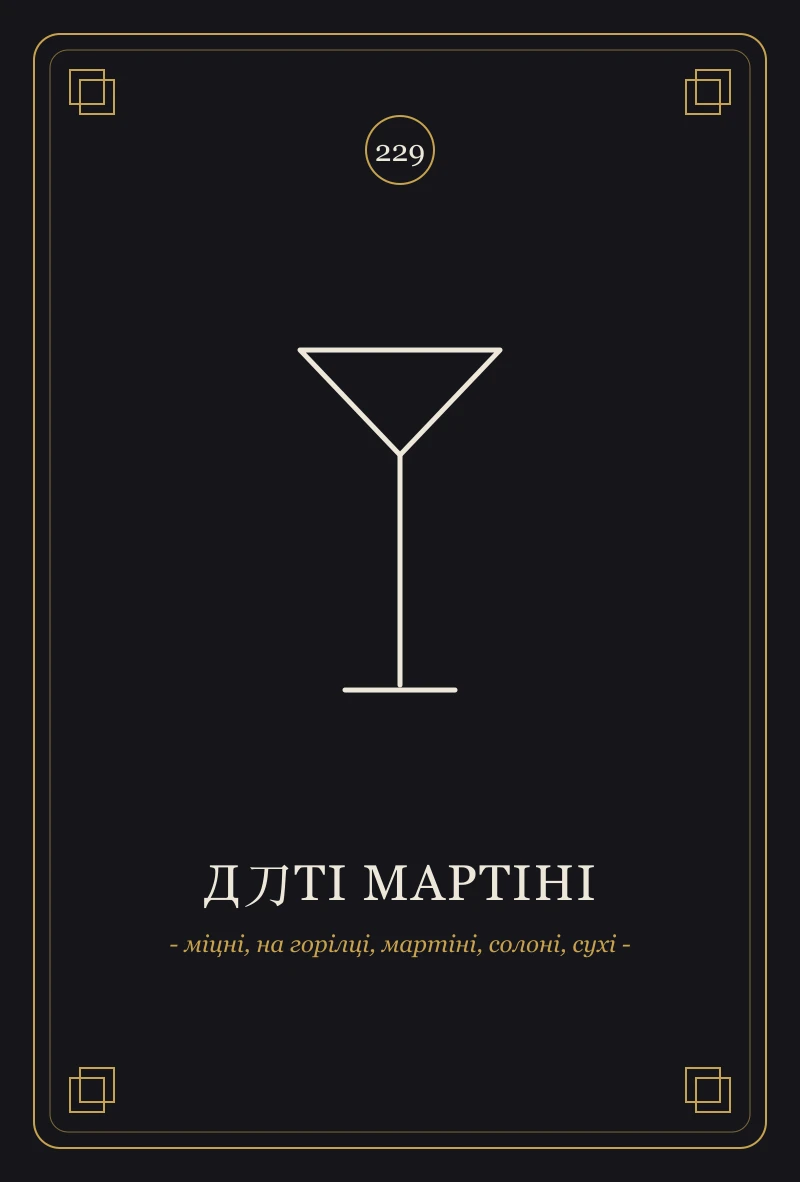
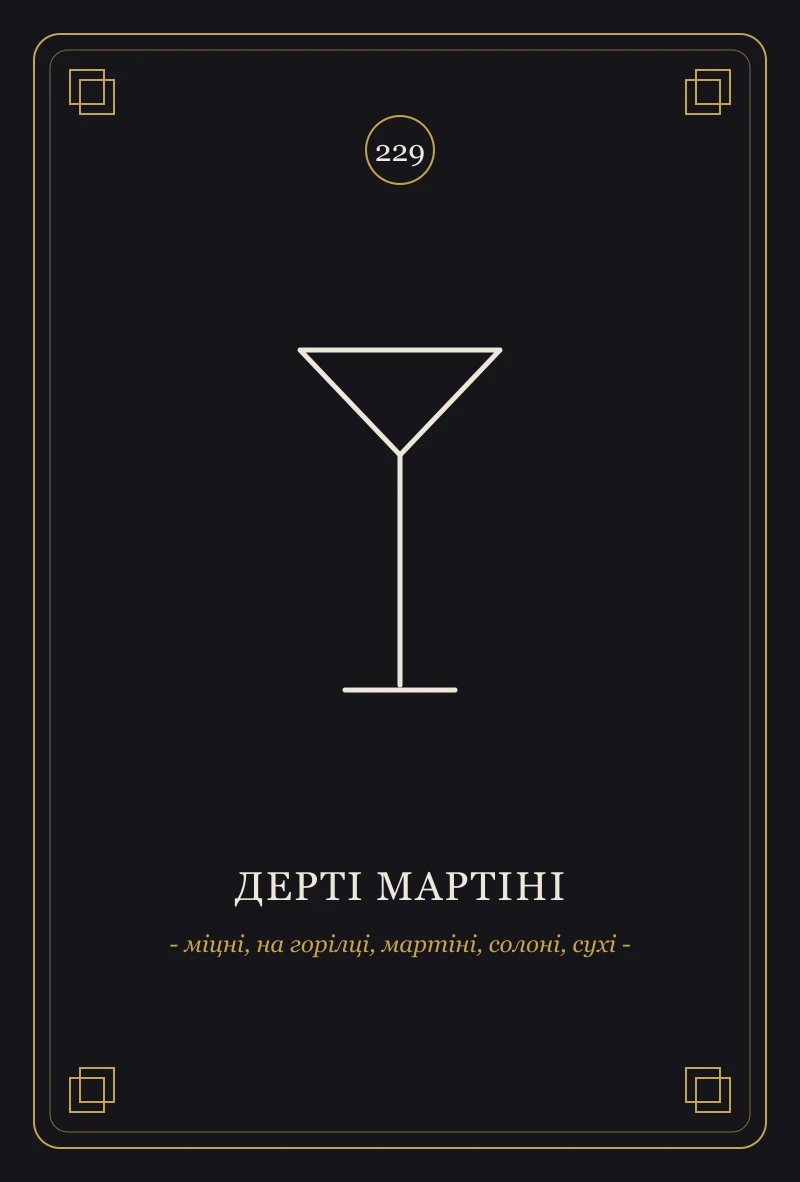
Recognise "Коктейльний келих" as a glass, add mug and julep cup, fix Dirty Martini's name
- The cocktail-glass pattern used \w, which is ASCII-only in JS regexes, so
  "Коктейльний келих" (201 recipes) never counted as a glass: it was missing
  from the glass filter and treated as a tool. Now a Unicode letter class.
- "Чашка" and "Кубок" are proper glasses with icons; "Келих Маргарита" folds
  into the coupe.
- Dirty Martini was named "Д刀ті Мартіні" (a stray CJK character): now
  "Дерті Мартіні", card art regenerated.

Changed region(s): [[0.25, 0.731, 0.75, 0.7614]]

diff --git a/src/data/catalog/tools.ts b/src/data/catalog/tools.ts
@@ -31,7 +31,7 @@ const CANON: Entry[] = [
     icon: "glass-cocktail",
     nameUk: "Шампанське блюдце",
     desc: "Широкий неглибокий келих на ніжці.",
-    match: /блюдц|купе|келих сауер/,
+    match: /блюдц|купе|келих сауер|маргарит/,
   },
   {
     id: "glass-martini",
@@ -39,7 +39,7 @@ const CANON: Entry[] = [
     icon: "glass-cocktail",
     nameUk: "Коктейльний келих",
     desc: "Келих-конус на ніжці для коктейлів без льоду.",
-    match: /мартіні|коктейльн\w* келих/,
+    match: /мартіні|коктейльн\p{L}* келих/u,
   },
   {
     id: "glass-wine",
@@ -104,6 +104,22 @@ const CANON: Entry[] = [
     nameUk: "Чарка",
     desc: "Маленька склянка для шотів.",
     match: /чарка|шот|стопк/,
+  },
+  {
+    id: "glass-mug",
+    kind: "glass",
+    icon: "cup",
+    nameUk: "Чашка",
+    desc: "Чашка або кухоль для гарячих напоїв.",
+    match: /чашк|кухол|кружк/,
+  },
+  {
+    id: "glass-julep",
+    kind: "glass",
+    icon: "cup",
+    nameUk: "Кубок",
+    desc: "Металевий кубок для джулепів, мулів і напоїв на подрібненому льоді.",
+    match: /кубок|джулеп/,
   },
   // ---- tools ----
   {

diff --git a/src/components/ToolIcon.tsx b/src/components/ToolIcon.tsx
@@ -57,6 +57,18 @@ const ICONS: Record<string, ReactNode> = {
       <path d="M9 11h6l-.6 9h-4.8Z" />
     </>
   ),
+  "glass-mug": (
+    <>
+      <path d="M6 7h10v11a2 2 0 0 1-2 2H8a2 2 0 0 1-2-2Z" />
+      <path d="M16 10h1.5a2.5 2.5 0 0 1 0 5H16" />
+    </>
+  ),
+  "glass-julep": (
+    <>
+      <path d="M6.5 5h11l-1.5 15h-8Z" />
+      <path d="M6.9 9h10.2" />
+    </>
+  ),
   // ---- tools ----
   shaker: (
     <>
